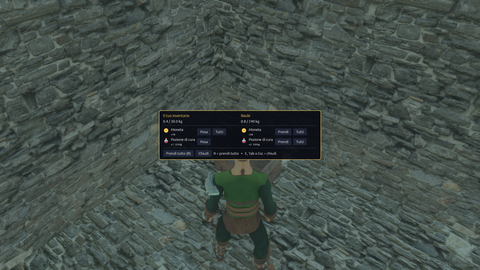
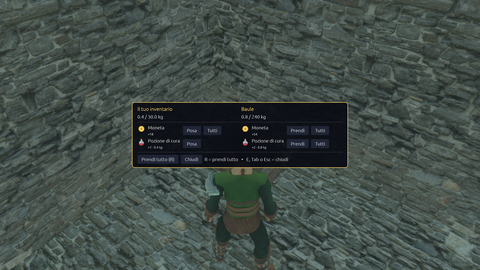
feat(ui): interface scale, automatic from the screen height or chosen in the settings
egui zoom follows the logical height (1 up to 1080 lines, 1.33 at 1440p, 2 at 4K)
or the setting (75-200%, saved as ui_scale). World-projected plates, barks, map
labels and the placement debug convert between screen pixels and egui points.
Reference photos for the 1440p and 4K scripts redone.

Changed region(s): [[0.25, 0.3556, 0.75, 0.6222]]

diff --git a/src/ui_style.rs b/src/ui_style.rs
@@ -1,7 +1,50 @@
 //! Stile UI condiviso: palette dei pannelli di dialogo (fondo scuro, bordo
 //! oro, testo chiaro), targhette nel mondo e tema egui globale.
 
+use bevy::prelude::*;
 use bevy_egui::egui::{self, Color32};
+use bevy_egui::{EguiContexts, PrimaryEguiContext};
+
+/// Scala dell'interfaccia scelta in automatico dall'altezza dello schermo in pixel logici
+/// (già divisi per il ridimensionamento del sistema): 1 fino a 1080 righe, poi cresce
+/// (1440p 1,33; 4K 2), così a 4K l'interfaccia ha la stessa misura che a 1080p.
+pub fn auto_ui_scale(logical_height: f32) -> f32 {
+    (logical_height / 1080.0).clamp(1.0, 3.0)
+}
+
+/// Scala da usare: quella scelta nelle impostazioni (0 = automatica).
+pub fn ui_scale(setting: f32, logical_height: f32) -> f32 {
+    if setting > 0.0 {
+        setting.clamp(0.5, 3.0)
+    } else {
+        auto_ui_scale(logical_height)
+    }
+}
+
+/// Da coordinate dello schermo in pixel logici (`Camera::world_to_viewport`) a punti di egui,
+/// che con la scala dell'interfaccia sono più grandi di un pixel.
+pub fn screen_to_ui(ctx: &egui::Context, p: Vec2) -> egui::Pos2 {
+    let z = ctx.zoom_factor();
+    egui::pos2(p.x / z, p.y / z)
+}
+
+/// Sistema (all'inizio del pass di egui): applica la scala dell'interfaccia.
+pub fn apply_ui_scale(
+    mut contexts: EguiContexts,
+    settings: Res<crate::audio::AudioSettings>,
+    cameras: Query<&Camera, With<PrimaryEguiContext>>,
+) {
+    let height = cameras
+        .iter()
+        .find_map(|c| c.logical_target_size())
+        .map_or(1080.0, |s| s.y);
+    let zoom = ui_scale(settings.ui_scale, height);
+    if let Ok(ctx) = contexts.ctx_mut()
+        && (ctx.zoom_factor() - zoom).abs() > 0.001
+    {
+        ctx.set_zoom_factor(zoom);
+    }
+}
 
 /// Fondo dei pannelli.
 pub const PANEL_FILL: Color32 = Color32::from_rgba_premultiplied(10, 12, 20, 245);
@@ -128,6 +171,18 @@ pub fn apply_style(ctx: &egui::Context) {
 #[cfg(test)]
 mod tests {
     use super::*;
+
+    #[test]
+    fn ui_scale_grows_above_1080p() {
+        assert_eq!(auto_ui_scale(720.0), 1.0);
+        assert_eq!(auto_ui_scale(1080.0), 1.0);
+        assert!((auto_ui_scale(1440.0) - 1.333).abs() < 0.01);
+        assert_eq!(auto_ui_scale(2160.0), 2.0);
+        // 4K con il sistema al 200%: 1080 righe logiche, nessun ingrandimento in più.
+        assert_eq!(ui_scale(0.0, 1080.0), 1.0);
+        // Scelta a mano.
+        assert_eq!(ui_scale(1.5, 2160.0), 1.5);
+    }
 
     #[test]
     fn overlapping_plates_are_stacked() {

diff --git a/src/audio.rs b/src/audio.rs
@@ -60,6 +60,8 @@ pub struct AudioSettings {
     /// Contatore degli FPS a schermo.
     pub show_fps: bool,
     pub fullscreen: bool,
+    /// Scala dell'interfaccia (0 = automatica dalla risoluzione, vedi `ui_style::ui_scale`).
+    pub ui_scale: f32,
     /// Impostazioni grafiche (solo aspetto visivo).
     pub gfx: crate::graphics::GfxOptions,
     /// VSync e limite di FPS.
@@ -85,6 +87,7 @@ impl Default for AudioSettings {
             mouse_sensitivity: 0.003,
             show_fps: true,
             fullscreen: true,
+            ui_scale: 0.0,
             gfx: Default::default(),
             fps: Default::default(),
             dirty: false,
@@ -136,6 +139,11 @@ impl Default for AudioSettings {
                 }
                 if let Some(v) = line.trim().strip_prefix("fullscreen=") {
                     s.fullscreen = v.trim() != "0";
+                }
+                if let Some(v) = line.trim().strip_prefix("ui_scale=")
+                    && let Ok(v) = v.trim().parse::<f32>()
+                {
+                    s.ui_scale = if v > 0.0 { v.clamp(0.5, 3.0) } else { 0.0 };
                 }
                 s.gfx.read_line(line);
                 s.fps.read_line(line);
@@ -300,7 +308,7 @@ pub fn save_settings(mut settings: ResMut<AudioSettings>, mouse: Res<ButtonInput
     match std::fs::write(
         &path,
         format!(
-            "music_volume={:.2}\nambient_volume={:.2}\nvoice_volume={:.2}\nai_enabled={}\nai_model={}\nai_host={}\ntts_enabled={}\ntts_voice={}\nstt_enabled={}\nstt_model={}\ntime_speed={}\nmouse_sensitivity={:.5}\nshow_fps={}\nfullscreen={}\n{}{}",
+            "music_volume={:.2}\nambient_volume={:.2}\nvoice_volume={:.2}\nai_enabled={}\nai_model={}\nai_host={}\ntts_enabled={}\ntts_voice={}\nstt_enabled={}\nstt_model={}\ntime_speed={}\nmouse_sensitivity={:.5}\nshow_fps={}\nfullscreen={}\nui_scale={:.2}\n{}{}",
             settings.music_volume,
             settings.ambient_volume,
             settings.voice_volume,
@@ -315,6 +323,7 @@ pub fn save_settings(mut settings: ResMut<AudioSettings>, mouse: Res<ButtonInput
             settings.mouse_sensitivity,
             u8::from(settings.show_fps),
             u8::from(settings.fullscreen),
+            settings.ui_scale,
             settings.gfx.to_lines(),
             settings.fps.to_lines()
         ),

diff --git a/src/map.rs b/src/map.rs
@@ -310,7 +310,7 @@ pub fn draw_map_overlay(
     // Segnalino del giocatore (freccia nella direzione dello sguardo) e casetta.
     if let Some((cam, cam_t)) = camera {
         if let Ok(p) = cam.world_to_viewport(cam_t, player_pos) {
-            let pos = egui::pos2(p.x, p.y);
+            let pos = crate::ui_style::screen_to_ui(ctx, p);
             let b = heading_deg.to_radians();
             let dir = egui::vec2(b.sin(), -b.cos());
             let perp = egui::vec2(-dir.y, dir.x);
@@ -335,14 +335,26 @@ pub fn draw_map_overlay(
         if let Some((name, at)) = village
             && let Ok(p) = cam.world_to_viewport(cam_t, at + Vec3::Y * 6.0)
         {
-            crate::ui_style::plate(&painter, egui::pos2(p.x, p.y), name, 28.0, gold);
+            crate::ui_style::plate(
+                &painter,
+                crate::ui_style::screen_to_ui(ctx, p),
+                name,
+                28.0,
+                gold,
+            );
         }
         static PLACES: std::sync::OnceLock<Vec<(String, Vec2)>> = std::sync::OnceLock::new();
         let places = PLACES.get_or_init(|| crate::water::load_spec().places);
         for (name, at) in places {
             let world = Vec3::new(at.x, 6.0, at.y);
             if let Ok(p) = cam.world_to_viewport(cam_t, world) {
-                crate::ui_style::plate(&painter, egui::pos2(p.x, p.y), name, 16.0, gold);
+                crate::ui_style::plate(
+                    &painter,
+                    crate::ui_style::screen_to_ui(ctx, p),
+                    name,
+                    16.0,
+                    gold,
+                );
             }
         }
         if let Some(h) = hut_pos
@@ -350,7 +362,7 @@ pub fn draw_map_overlay(
         {
             crate::ui_style::plate(
                 &painter,
-                egui::pos2(p.x, p.y - 26.0),
+                crate::ui_style::screen_to_ui(ctx, p) - egui::vec2(0.0, 26.0),
                 "Capanna del Viandante",
                 18.0,
                 gold,

diff --git a/src/debug_place.rs b/src/debug_place.rs
@@ -1016,7 +1016,8 @@ pub fn debug_ui(mut dbg: ResMut<DebugPlace>, mut cx: DebugCtx) {
         let hover = (!over_ui)
             .then(|| {
                 camera.and_then(|cam| {
-                    let pos = ctx.input(|i| i.pointer.latest_pos())?;
+                    // Punti di egui → pixel dello schermo (scala dell'interfaccia).
+                    let pos = ctx.input(|i| i.pointer.latest_pos())? * ctx.zoom_factor();
                     cursor_ground(cam, pos)
                 })
             })
@@ -1155,7 +1156,7 @@ pub fn debug_ui(mut dbg: ResMut<DebugPlace>, mut cx: DebugCtx) {
     let proj = |p: Vec2| {
         cam.world_to_viewport(cam_t, Vec3::new(p.x, lift(p), p.y))
             .ok()
-            .map(|s| egui::pos2(s.x, s.y))
+            .map(|s| crate::ui_style::screen_to_ui(&ctx, s))
     };
     let line = |pts: &[Vec2], closed: bool, stroke: egui::Stroke| {
         let mut v: Vec<egui::Pos2> = pts.iter().filter_map(|p| proj(*p)).collect();
@@ -1221,7 +1222,7 @@ pub fn debug_ui(mut dbg: ResMut<DebugPlace>, mut cx: DebugCtx) {
                     / pl.points.len() as f32,
         ) {
             painter.text(
-                egui::pos2(s.x, s.y - 14.0),
+                crate::ui_style::screen_to_ui(&ctx, s) - egui::vec2(0.0, 14.0),
                 egui::Align2::CENTER_BOTTOM,
                 format!("P-{:04} {} ×{}", pl.id, pl.kind, pl.points.len()),
                 egui::FontId::proportional(14.0),

diff --git a/src/hud.rs b/src/hud.rs
@@ -242,6 +242,8 @@ pub fn draw_enemy_bars(
         let Ok(screen) = camera.world_to_viewport(cam_t, world_pos) else {
             continue; // fuori dallo schermo o dietro la camera
         };
+        // Pixel dello schermo → punti di egui (scala dell'interfaccia).
+        let screen = crate::ui_style::screen_to_ui(ctx, screen);
         // Bevy 0.20: world_to_viewport restituisce gia' coordinate viewport
         // in pixel con origine in ALTO a sinistra (y-down), pronte per egui.
         // Non invertire y: quella conversione sposta la barra sotto il nemico.
@@ -317,6 +319,7 @@ pub fn draw_npc_labels(
         let Ok(screen) = camera.world_to_viewport(cam_t, t.translation() + Vec3::Y * 1.3) else {
             continue;
         };
+        let screen = crate::ui_style::screen_to_ui(ctx, screen);
         if !viewport.contains(egui::pos2(screen.x, screen.y)) {
             continue;
         }

diff --git a/src/settings_ui.rs b/src/settings_ui.rs
@@ -53,6 +53,25 @@ fn game_tab(ui: &mut egui::Ui, cx: &mut SettingsCtx) {
     if ui.checkbox(&mut a.show_fps, "Mostra FPS").changed() {
         a.dirty = true;
     }
+    ui.horizontal(|ui| {
+        ui.label("Scala interfaccia:");
+        for (value, name) in [
+            (0.0, "Automatica"),
+            (0.75, "75%"),
+            (1.0, "100%"),
+            (1.25, "125%"),
+            (1.5, "150%"),
+            (2.0, "200%"),
+        ] {
+            if ui
+                .selectable_label((a.ui_scale - value).abs() < 0.01, name)
+                .clicked()
+            {
+                a.ui_scale = value;
+                a.dirty = true;
+            }
+        }
+    });
     ui.separator();
     ui.label(
         egui::RichText::new("Dialoghi con IA (locale)")

diff --git a/src/menu.rs b/src/menu.rs
@@ -1035,6 +1035,7 @@ fn draw_barks(
         let Ok(screen) = camera.world_to_viewport(cam_t, t.translation() + Vec3::Y * h) else {
             continue;
         };
+        let screen = crate::ui_style::screen_to_ui(ctx, screen);
         egui::Area::new(egui::Id::new(("bark", i)))
             .pivot(egui::Align2::CENTER_TOP)
             .fixed_pos(egui::pos2(screen.x, screen.y + 8.0))

diff --git a/src/main.rs b/src/main.rs
@@ -360,6 +360,7 @@ fn main() -> AppExit {
         .add_systems(
             EguiPrimaryContextPass,
             (
+                ui_style::apply_ui_scale,
                 inventory_ui::load_item_icons,
                 menu::ui,
                 debug_place::debug_ui,

diff --git a/docs/beta/PIANO-BETA.md b/docs/beta/PIANO-BETA.md
@@ -254,7 +254,9 @@ Trovati guardando le foto (da decidere):
 - **Meteo** (corretto): con nuvoloso, nebbia, pioggia, temporale e neve il sole proiettava ancora **ombre nette** come col sereno. Ora col cielo coperto la luce diretta del sole quasi sparisce (pioggia, temporale, nebbia e neve: sotto l'8%) e la luce del cielo cala meno: niente ombre nette, luce diffusa. Col nuvoloso il sole passa a tratti (circa 30%) e le ombre sono tenui. Il sereno non cambia.
 - **Pioggia**: come per la neve, le gocce vicinissime alla camera diventano lunghe barre bianche.
 - **Neve**: i fiocchi vicini alla camera sono grossi quadrati bianchi.
-- **Interfaccia a 4K**: l'HUD e i pannelli non si ingrandiscono con la risoluzione. Senza ridimensionamento del sistema (100%) sono minuscoli: serve una scala dell'interfaccia (automatica o nelle impostazioni).
+- **Interfaccia a 4K** (corretto): l'HUD e i pannelli non si ingrandivano con la risoluzione e a 4K erano minuscoli. Ora c'è la scala dell'interfaccia, automatica di base: 1 fino a 1080 righe (dopo il ridimensionamento del sistema), poi cresce (1440p ×1,33, 4K ×2), così a 1080p, 1440p e 4K l'interfaccia occupa la stessa parte dello schermo. Nelle impostazioni (Gioco) si può scegliere 75–200%. Targhette, fumetti, mappa e debug dei piazzamenti tengono conto della scala. Provato con `interfaccia` alle quattro risoluzioni; riferimenti dei copioni a 1440p e 4K rifatti.
+- **Negozio e mobili**: a 1440p il 1% peggiore è sceso a 10 FPS (un intoppo all'apertura di un pannello o del negozio): da guardare nella fase delle prestazioni.
+- **Memoria video**: un altro modello di Ollama (`ornith-1.5:35b-256k`, 9,4 GB) occupava la scheda e il gioco andava in «Out of Memory» anche a 720p. Scaricato con il permesso dell'utente; succederà di nuovo ogni volta che quel modello è in memoria.
 - **Insegne vuote**: alcuni edifici hanno la tabella senza scritta (forno, bottega di Osvaldo, sopra due porte).
 - **Camera**: girando attorno al giocatore sotto le tettoie del mercato, la camera entra nelle travi (una foto di `giro-camera` è coperta da una trave).
 - **Voce**: il saluto di Marta arriva a 0,0 dBFS (0,1% dei campioni al limite): va abbassata di qualche dB.

diff --git a/CHANGELOG.md b/CHANGELOG.md
@@ -4,6 +4,7 @@ Formato versione: `vMAJOR.MINOR.FEATURE.BUGFIX` (vedi [docs/VERSIONING.md](docs/
 
 ## Non rilasciato
 
+- **Scala dell'interfaccia**: a 1440p e 4K l'interfaccia si ingrandisce da sola (×1,33 e ×2) invece di restare minuscola; nelle impostazioni (Gioco → Scala interfaccia) si sceglie Automatica o 75–200%. Targhette, fumetti e mappa restano al loro posto.
 - **Meteo, ombre**: col cielo coperto (pioggia, temporale, nebbia, neve) il sole non proietta più ombre nette: la luce diretta quasi sparisce e quella del cielo diventa diffusa. Col nuvoloso le ombre sono tenui. Il sereno non cambia.
 - **Sottotetti**: la rampa finiva contro il muretto e in soffitta non si saliva; ora finisce prima e c'è il percorso fino in cima.
 - **Caserma**: due brande nel sottotetto per Livio e Mario, le ronde della notte.
